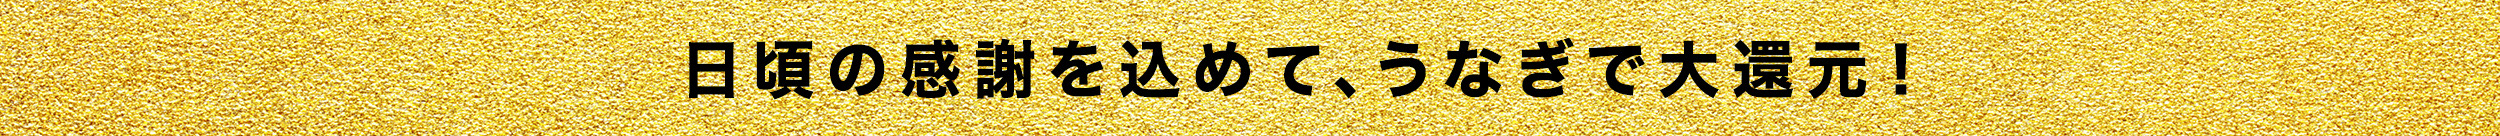
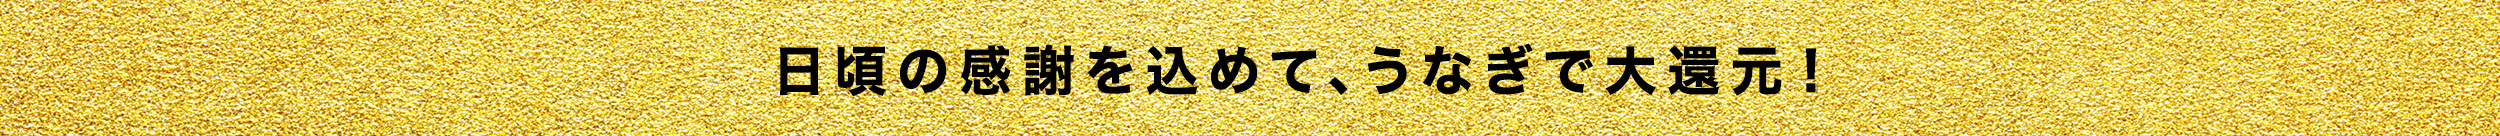
金帯を差し替えて下げる、ヘッダー・フッターにかわすいロゴ

Changed region(s): [[0.2496, 0.2941, 0.78, 0.7353]]

diff --git a/index.html b/index.html
@@ -36,8 +36,9 @@ a{color:inherit;text-decoration:none}
 
 /* ========== ヘッダー・ナビ ========== */
 .hd{position:sticky;top:0;z-index:50;display:flex;align-items:center;justify-content:space-between;gap:12px;height:54px;padding:0 14px 0 18px;background:var(--red-d);color:#fff}
-.hd__logo{font-family:var(--mincho);font-weight:800;font-size:17px;letter-spacing:.16em;white-space:nowrap}
-.hd__logo small{display:block;font-family:var(--goth);font-weight:500;font-size:10px;letter-spacing:.12em;line-height:1;opacity:.8}
+.hd__logo{white-space:nowrap;line-height:1}
+.hd__logo img{display:block;height:24px;width:auto;margin-top:4px;filter:brightness(0) invert(1)}
+.hd__logo small{display:block;font-family:var(--goth);font-weight:500;font-size:10px;letter-spacing:.12em;line-height:1;opacity:.85}
 .hd__ttl{display:none}
 .hd__cta{flex:none;background:#fff;color:var(--red);font-weight:700;font-size:13px;letter-spacing:.06em;line-height:1;padding:11px 16px;border-radius:999px}
 .nav{position:sticky;top:54px;z-index:40;background:#fff;border-bottom:1px solid var(--line);overflow-x:auto;scrollbar-width:none}
@@ -50,7 +51,7 @@ section[id]{scroll-margin-top:100px}
 /* ========== FV ========== */
 .fv{position:relative;display:flex;flex-direction:column;background:#000;color:#fff;text-align:center;overflow:hidden}
 .fv__confetti{position:absolute;inset:0;width:100%;height:100%;z-index:1;pointer-events:none}
-.fv__band{position:relative;z-index:3;height:40px;overflow:hidden;margin-top:22px}
+.fv__band{position:relative;z-index:3;height:40px;overflow:hidden;margin-top:34px}
 .fv__band img{width:100%;height:100%;object-fit:cover}
 .fv__body{position:relative;z-index:2;padding:26px 16px 0}
 .fv__ttl{position:relative;width:100%;max-width:440px;margin:0 auto}
@@ -227,7 +228,7 @@ section[id]{scroll-margin-top:100px}
 .notes li{list-style:none;padding-left:1em;text-indent:-1em}
 .notes li::before{content:"※"}
 .foot{background:var(--red) var(--wave);color:#fff;text-align:center;padding:52px 22px 56px}
-.foot__shop{font-family:var(--goth);font-weight:900;font-size:28px;letter-spacing:.24em}
+.foot__shop img{display:block;width:240px;height:auto;margin:0 auto;filter:brightness(0) invert(1)}
 .foot .btn{max-width:420px;margin:24px auto 0;background:var(--yellow);color:var(--red)}
 .foot .btn::after{border-color:var(--red)}
 
@@ -236,7 +237,7 @@ section[id]{scroll-margin-top:100px}
   .sp{display:none}.pc{display:inline}
   .pad,.sched .wrap,.hero-item,.mara__head,.second__intro,.notes{padding-left:max(48px,calc((100% - 1120px)/2));padding-right:max(48px,calc((100% - 1120px)/2))}
   .hd{height:64px;padding:0 32px}
-  .hd__logo{font-size:22px}
+  .hd__logo img{height:30px}
   .hd__logo small{font-size:11px}
   .hd__ttl{display:block;flex:1;margin-left:24px;padding-left:24px;border-left:1px solid rgba(255,255,255,.35);font-weight:700;font-size:15px;letter-spacing:.06em}
   .hd__cta{font-size:15px;padding:13px 26px}
@@ -251,9 +252,9 @@ section[id]{scroll-margin-top:100px}
   .fv__strip{position:absolute;left:3.3cqw;top:0;bottom:0;width:18.8cqw;height:auto;margin:0;z-index:2;background:none}
   .fv__track{flex-direction:column;gap:1cqw;width:18.8cqw;animation:mqy 30s linear infinite}
   .fv__track img{width:18.8cqw;height:18.75cqw}
-  .fv__band{position:absolute;left:0;right:0;top:4.3cqw;height:5.4cqw;margin:0}
+  .fv__band{position:absolute;left:0;right:0;top:6.6cqw;height:5.44cqw;margin:0}
   .fv__band img{object-fit:fill}
-  .fv__body{position:absolute;left:26.5cqw;top:15.4cqw;width:51cqw;padding:0}
+  .fv__body{position:absolute;left:26.5cqw;top:16.4cqw;width:51cqw;padding:0}
   .fv__ttl{max-width:none}
   .fv__date{margin-top:2.6cqw;font-size:2.85cqw;letter-spacing:.03em}
   .fv__chara{position:absolute;left:69.7cqw;bottom:0;width:27cqw;height:30cqw;margin:0;display:block}
@@ -334,7 +335,7 @@ section[id]{scroll-margin-top:100px}
 
   .notes{padding-top:64px;padding-bottom:64px;font-size:14px}
   .foot{padding:80px 48px}
-  .foot__shop{font-size:36px}
+  .foot__shop img{width:320px}
 }
 </style>
 </head>
@@ -342,7 +343,7 @@ section[id]{scroll-margin-top:100px}
 <div class="page">
 
   <header class="hd">
-    <p class="hd__logo"><small>楽天市場店</small>うなぎ屋かわすい</p>
+    <p class="hd__logo"><small>楽天市場店</small><img src="img/logo-kawasui.png" alt="うなぎ屋かわすい" width="960" height="160"></p>
     <p class="hd__ttl">決算感謝祭 開催　11/4(水)20:00〜11/27(金)13:59</p>
     <a class="hd__cta" href="#first">セール商品を見る</a>
   </header>
@@ -366,7 +367,7 @@ section[id]{scroll-margin-top:100px}
         <img src="img/photo-03.jpg" alt="" width="1000" height="667">
       </div>
     </div>
-    <p class="fv__band"><img src="img/fv-band.jpg" alt="日頃の感謝を込めて、うなぎで大還元！" width="2511" height="136"></p>
+    <p class="fv__band"><img src="img/fv-band.jpg" alt="日頃の感謝を込めて、うなぎで大還元！" width="2500" height="136"></p>
     <div class="fv__body">
       <h1 class="fv__ttl"><img src="img/fv-title.png" alt="うなぎ屋かわすいの決算感謝祭" width="1275" height="395"></h1>
       <p class="fv__date">11.4<small>(水)</small>20:00〜11.27<small>(金)</small>13:59</p>
@@ -615,7 +616,7 @@ section[id]{scroll-margin-top:100px}
   </section>
 
   <footer class="foot">
-    <p class="foot__shop">うなぎ屋かわすい</p>
+    <p class="foot__shop"><img src="img/logo-kawasui.png" alt="うなぎ屋かわすい" width="960" height="160" loading="lazy"></p>
     <a class="btn" href="https://www.rakuten.co.jp/kawasui/" target="_blank" rel="noopener">ショップトップへ</a>
   </footer>
 </div>
